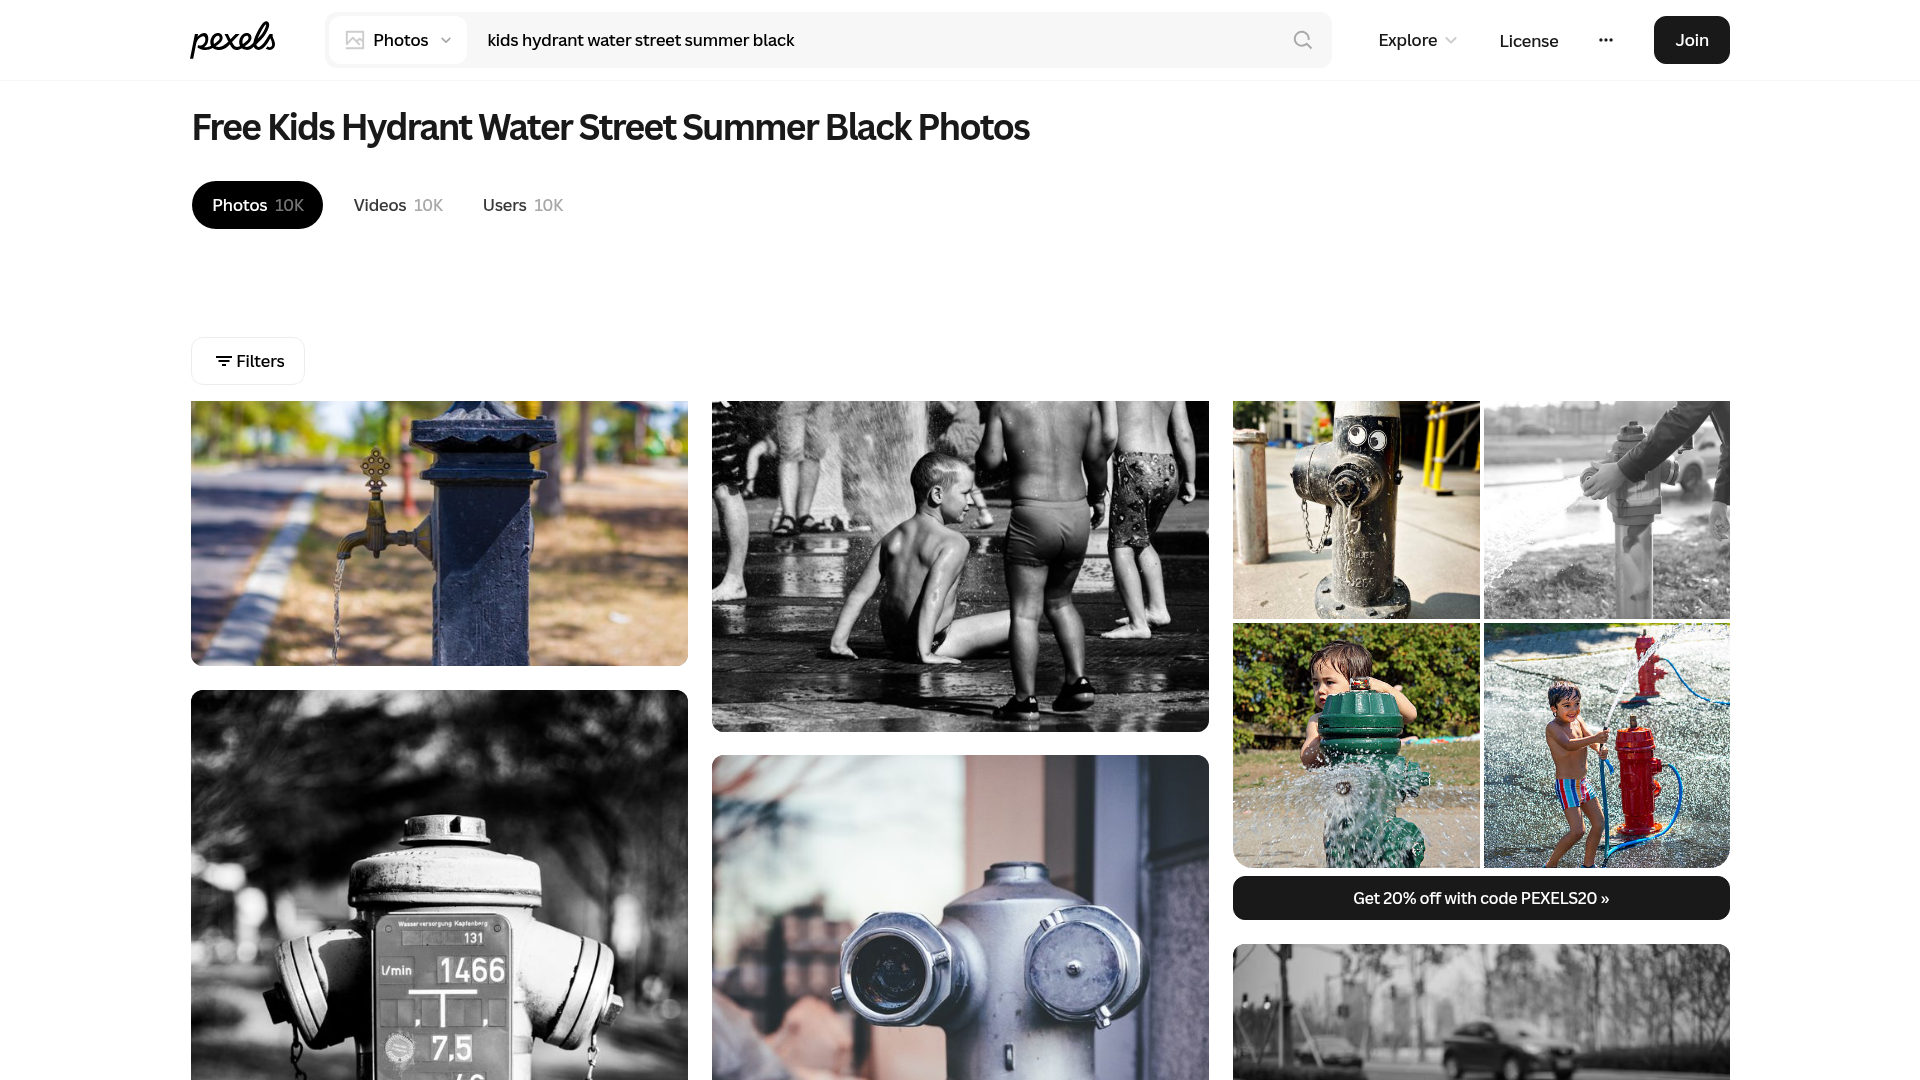
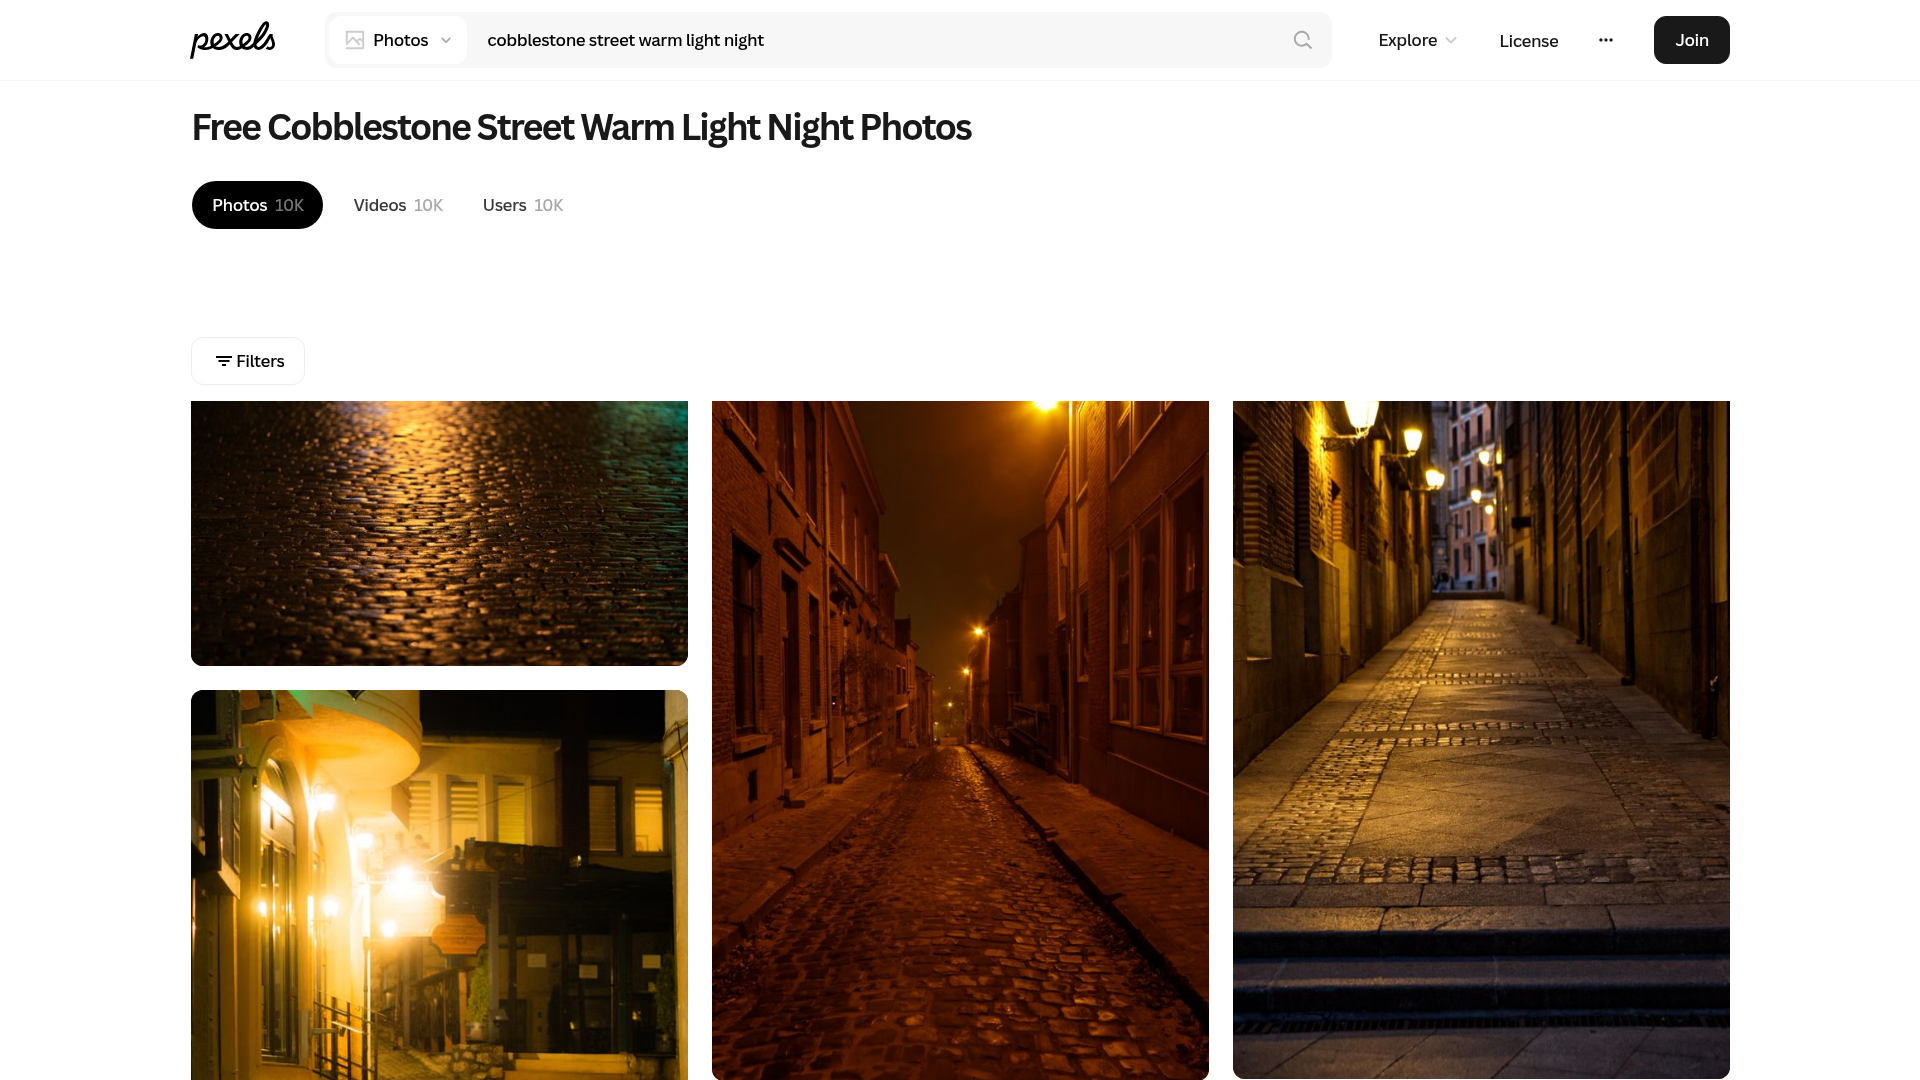
Add app launch email and update hero background image
Introduces functionality to send app launch emails to waitlist users and updates the hero background image on the home page. Adds `launchEmailSent` boolean to waitlist table.

Replit-Commit-Author: Agent
Replit-Commit-Session-Id: 579a76d0-7c7b-428c-936e-9c61c66a0d40
Replit-Commit-Checkpoint-Type: full_checkpoint
Replit-Commit-Event-Id: 72594a7f-a0fe-4a1a-8707-e62fc6c56e30
Replit-Commit-Screenshot-Url: https://storage.googleapis.com/screenshot-production-us-central1/ac64a230-72f5-4194-b8b4-3ca827a772f9/579a76d0-7c7b-428c-936e-9c61c66a0d40/5tMoFoa
Replit-Helium-Checkpoint-Created: true

diff --git a/artifacts/api-server/src/lib/email.ts b/artifacts/api-server/src/lib/email.ts
@@ -225,9 +225,20 @@ export async function sendReferralNudge(
           <p style="color:#F5EBD8;font-size:13px;margin:0;opacity:0.7">Referral code: <span style="color:#CA922B;font-weight:700;letter-spacing:3px">${referralCode}</span></p>
         </div>
 
-        <a href="${referralLink}" style="display:inline-block;background:#CA922B;color:#fff;font-weight:700;font-size:16px;padding:14px 32px;border-radius:50px;text-decoration:none;margin-bottom:24px">
-          Share Your Link →
+        <a href="https://mappingwithmelanin.com/?ref=${referralCode}" style="display:inline-block;background:#CA922B;color:#fff;font-weight:700;font-size:16px;padding:14px 32px;border-radius:50px;text-decoration:none;margin-bottom:24px">
+          Join at mappingwithmelanin.com →
         </a>
+
+        <div style="background:#FAF6EF;border:1px solid #CA922B33;border-radius:12px;padding:20px;margin:0 0 24px">
+          <p style="color:#2B1507;font-size:13px;font-weight:700;margin:0 0 10px;text-align:center;text-transform:uppercase;letter-spacing:1px">📱 App Coming Soon</p>
+          <div style="display:flex;gap:12px;justify-content:center;flex-wrap:wrap">
+            <span style="background:#2B1507;color:#F5EBD8;font-size:12px;font-weight:700;padding:8px 16px;border-radius:20px">🍎 iOS App Store</span>
+            <span style="background:#2B1507;color:#F5EBD8;font-size:12px;font-weight:700;padding:8px 16px;border-radius:20px">🤖 Google Play</span>
+          </div>
+          <p style="color:#3A1F0E;font-size:12px;text-align:center;margin:10px 0 0;opacity:0.7">
+            You'll be among the first notified the moment we go live on both stores.
+          </p>
+        </div>
 
         <p style="color:#3A1F0E;font-size:14px;line-height:1.6;margin:0 0 8px;opacity:0.7">
           We're building something special and we're grateful you're part of the journey from the beginning.
@@ -1830,6 +1841,81 @@ export async function sendReferralMilestoneUpdate(
         <p style="color:#2B1507;font-size:16px;font-weight:700;font-style:italic;margin:0 0 4px">Map Your Life. Connect Deeper.™</p>
         <p style="color:#3A1F0E;font-size:15px;margin:0 0 4px">The Mapping With Melanin™ Team</p>
         <p style="color:#3A1F0E;font-size:13px;opacity:0.6;margin:0">Melanin Maps LLC · <a href="mailto:hello@mappingwithmelanin.com" style="color:#CA922B">hello@mappingwithmelanin.com</a></p>
+      </div>
+    `,
+  });
+}
+
+// ── App launch blast ──────────────────────────────────────────────────────────
+
+export async function sendAppLaunchBlast(
+  to: string,
+  firstName: string,
+  position: number,
+  referralCode: string,
+  iosUrl: string,
+  androidUrl: string,
+) {
+  if (!resend) { log("app launch blast"); return; }
+  const name = firstName || "there";
+  const websiteUrl = `https://mappingwithmelanin.com/?ref=${referralCode}`;
+  await resend.emails.send({
+    from: FROM,
+    to,
+    replyTo: "hello@mappingwithmelanin.com",
+    subject: `🎉 The Mapping with Melanin™ app is HERE — your spot is confirmed!`,
+    html: `
+      <div style="font-family:sans-serif;max-width:600px;margin:0 auto;background:#FAF6EF;padding:40px 32px;border-radius:16px">
+        <img src="https://mappingwithmelanin.com/images/brand/logo.png" alt="Mapping with Melanin" style="height:40px;margin-bottom:32px" />
+
+        <div style="background:#CA922B;border-radius:12px;padding:24px;text-align:center;margin-bottom:28px">
+          <p style="color:#fff;font-size:28px;font-weight:900;margin:0 0 8px;letter-spacing:-0.5px">🎉 We're LIVE!</p>
+          <p style="color:#fff;font-size:15px;margin:0;opacity:0.9">The wait is officially over.</p>
+        </div>
+
+        <p style="color:#2B1507;font-size:16px;line-height:1.6;margin:0 0 16px">Hello ${name},</p>
+
+        <p style="color:#2B1507;font-size:18px;font-weight:700;line-height:1.4;margin:0 0 16px">
+          Mapping with Melanin™ is now available for download — and your waitlist spot is confirmed.
+        </p>
+
+        <p style="color:#3A1F0E;font-size:16px;line-height:1.6;margin:0 0 24px">
+          You were <strong style="color:#CA922B">#${position}</strong> on our waitlist. That early belief means everything to us.
+          You helped build this community before it launched — and now it's yours to explore.
+        </p>
+
+        <div style="display:flex;gap:16px;margin-bottom:28px;flex-wrap:wrap">
+          <a href="${iosUrl}" style="flex:1;min-width:200px;display:flex;align-items:center;gap:14px;background:#2B1507;border-radius:14px;padding:16px 20px;text-decoration:none">
+            <span style="font-size:28px">🍎</span>
+            <div>
+              <p style="color:#F5EBD8;font-size:11px;margin:0;opacity:0.6;text-transform:uppercase;letter-spacing:1px">Download on the</p>
+              <p style="color:#fff;font-size:18px;font-weight:800;margin:0;line-height:1.2">App Store</p>
+              <p style="color:#CA922B;font-size:11px;margin:0">iOS</p>
+            </div>
+          </a>
+          <a href="${androidUrl}" style="flex:1;min-width:200px;display:flex;align-items:center;gap:14px;background:#2B1507;border-radius:14px;padding:16px 20px;text-decoration:none">
+            <span style="font-size:28px">🤖</span>
+            <div>
+              <p style="color:#F5EBD8;font-size:11px;margin:0;opacity:0.6;text-transform:uppercase;letter-spacing:1px">Get it on</p>
+              <p style="color:#fff;font-size:18px;font-weight:800;margin:0;line-height:1.2">Google Play</p>
+              <p style="color:#CA922B;font-size:11px;margin:0">Android</p>
+            </div>
+          </a>
+        </div>
+
+        <a href="${websiteUrl}" style="display:block;text-align:center;background:#CA922B;color:#fff;font-weight:700;font-size:15px;padding:14px 32px;border-radius:50px;text-decoration:none;margin-bottom:28px">
+          Visit mappingwithmelanin.com →
+        </a>
+
+        <div style="background:#2B1507;border-radius:12px;padding:20px 24px;margin-bottom:24px">
+          <p style="color:#CA922B;font-size:13px;font-weight:700;margin:0 0 8px;text-transform:uppercase;letter-spacing:1px">Still have friends to invite?</p>
+          <p style="color:#F5EBD8;font-size:14px;margin:0 0 12px;opacity:0.8">Share your referral code — every person you bring in strengthens the community.</p>
+          <p style="color:#F5EBD8;font-size:12px;margin:0;opacity:0.6">Code: <span style="color:#CA922B;font-weight:700;letter-spacing:3px">${referralCode}</span></p>
+        </div>
+
+        <p style="color:#2B1507;font-size:15px;font-weight:700;font-style:italic;margin:16px 0 4px">Map Your Life. Connect Deeper.™</p>
+        <p style="color:#3A1F0E;font-size:14px;margin:0 0 4px">The Mapping with Melanin™ Team</p>
+        <p style="color:#3A1F0E;font-size:13px;opacity:0.5;margin:0">Melanin Maps LLC</p>
       </div>
     `,
   });

diff --git a/artifacts/api-server/src/routes/waitlist.ts b/artifacts/api-server/src/routes/waitlist.ts
@@ -2,7 +2,7 @@ import { Router, type IRouter, type Request, type Response } from "express";
 import { db, pool, waitlistTable, usersTable, businessRecommendationsTable, pointsLedgerTable, businessesTable } from "@workspace/db";
 import { and, asc, count, desc, eq, gte, ilike, isNotNull, lt, sql } from "drizzle-orm";
 import { waitlistLimiter } from "../middleware/rateLimiter";
-import { sendWaitlistConfirmation, sendWelcomeEmail, sendApprovalNotification, sendBusinessRecommendationInvite, sendFriendInvitation, sendBusinessWaitlistInvitation, sendReferralMilestoneUpdate, sendReferralNudge } from "../lib/email";
+import { sendWaitlistConfirmation, sendWelcomeEmail, sendApprovalNotification, sendBusinessRecommendationInvite, sendFriendInvitation, sendBusinessWaitlistInvitation, sendReferralMilestoneUpdate, sendReferralNudge, sendAppLaunchBlast } from "../lib/email";
 
 const router: IRouter = Router();
 
@@ -808,6 +808,67 @@ router.get("/waitlist/leaderboard", async (_req: Request, res: Response) => {
     res.json({ builders, cities });
   } catch (err) {
     res.status(500).json({ error: "Failed to fetch leaderboard" });
+  }
+});
+
+// ── Admin: app launch blast to all waitlist members ───────────────────────────
+
+router.post("/admin/send-launch-blast", async (req: Request, res: Response) => {
+  if (!isAdmin(req)) { res.status(403).json({ error: "Forbidden" }); return; }
+  try {
+    const { iosUrl, androidUrl, onlyUnsent } = req.body as {
+      iosUrl?: string;
+      androidUrl?: string;
+      onlyUnsent?: boolean;
+    };
+    const iosLink = iosUrl || "https://apps.apple.com/app/mapping-with-melanin";
+    const androidLink = androidUrl || "https://play.google.com/store/apps/details?id=com.melaninmaps";
+
+    const { eq: drizzleEq } = await import("drizzle-orm");
+    const all = await db
+      .select()
+      .from(waitlistTable)
+      .where(onlyUnsent !== false ? drizzleEq(waitlistTable.launchEmailSent, false) : undefined)
+      .orderBy(waitlistTable.createdAt);
+
+    const totalOnList = await db.select({ total: count() }).from(waitlistTable);
+    const totalCount = Number(totalOnList[0].total);
+
+    let sent = 0;
+    let failed = 0;
+    for (let i = 0; i < all.length; i++) {
+      const entry = all[i];
+      if (!entry.email || !entry.referralCode) { failed++; continue; }
+      const position = i + 1;
+      try {
+        await sendAppLaunchBlast(
+          entry.email,
+          entry.firstName ?? "there",
+          position,
+          entry.referralCode,
+          iosLink,
+          androidLink,
+        );
+        await db.update(waitlistTable)
+          .set({ launchEmailSent: true })
+          .where(drizzleEq(waitlistTable.id, entry.id));
+        sent++;
+        if (i % 10 === 9) await new Promise(r => setTimeout(r, 500));
+      } catch {
+        failed++;
+      }
+    }
+
+    res.json({
+      sent,
+      failed,
+      skipped: totalCount - all.length,
+      total: totalCount,
+      message: `Launch blast complete — ${sent} emails sent, ${failed} failed.`,
+    });
+  } catch (err) {
+    req.log.error({ err }, "Failed to send launch blast");
+    res.status(500).json({ error: "Failed to send launch blast" });
   }
 });
 

diff --git a/artifacts/web/src/pages/home.tsx b/artifacts/web/src/pages/home.tsx
@@ -483,7 +483,7 @@ export default function Home() {
       <WaveDivider fromBg="#FAF6EF" toBg="#2B1507" flip />
 
       {/* ── WHAT WE OFFER (Teaser Cards) ── */}
-      <section className="py-24 bg-[#2B1507] text-white">
+      <section className="py-24 bg-gradient-to-b from-[#3D1F0A] to-[#2B1507] text-white">
         <div className="container mx-auto px-4 max-w-6xl">
           <div className="text-center mb-14">
             <div className="inline-flex items-center gap-2 px-4 py-1.5 rounded-full border border-[#CA922B]/50 bg-[#CA922B]/10 mb-6">
@@ -773,7 +773,7 @@ export default function Home() {
       <WaveDivider fromBg="#FAF6EF" toBg="#2B1507" flip />
 
       {/* ── IMPACT COUNTER ── */}
-      <section className="py-16 bg-[#2B1507]">
+      <section className="py-16 bg-gradient-to-b from-[#2B1507] to-[#3D1F0A]">
         <div className="container mx-auto px-4 max-w-5xl">
           <div className="text-center mb-10">
             <div className="inline-flex items-center gap-2 px-4 py-1.5 rounded-full border border-[#CA922B]/40 bg-[#CA922B]/10 mb-4">
@@ -846,7 +846,7 @@ export default function Home() {
       <RotatingQuoteBanner variant="dark" />
 
       {/* ── APP COMING SOON ── */}
-      <section className="py-24 bg-[#2B1507] text-white overflow-hidden">
+      <section className="py-24 bg-gradient-to-b from-[#3D1F0A] to-[#2B1507] text-white overflow-hidden">
         <div className="container mx-auto px-4 max-w-5xl">
           <div className="text-center mb-12">
             <div className="inline-flex items-center gap-2 px-4 py-1.5 rounded-full border border-[#CA922B]/50 bg-[#CA922B]/10 mb-6">

diff --git a/lib/db/src/schema/waitlist.ts b/lib/db/src/schema/waitlist.ts
@@ -15,6 +15,7 @@ export const waitlistTable = pgTable("waitlist_signups", {
   referredBy: varchar("referred_by", { length: 20 }),
   notes: text("notes"),
   welcomeEmailSent: boolean("welcome_email_sent").notNull().default(false),
+  launchEmailSent: boolean("launch_email_sent").notNull().default(false),
   approvedAt: timestamp("approved_at"),
   lastNudgeSentAt: timestamp("last_nudge_sent_at"),
   createdAt: timestamp("created_at").notNull().defaultNow(),
